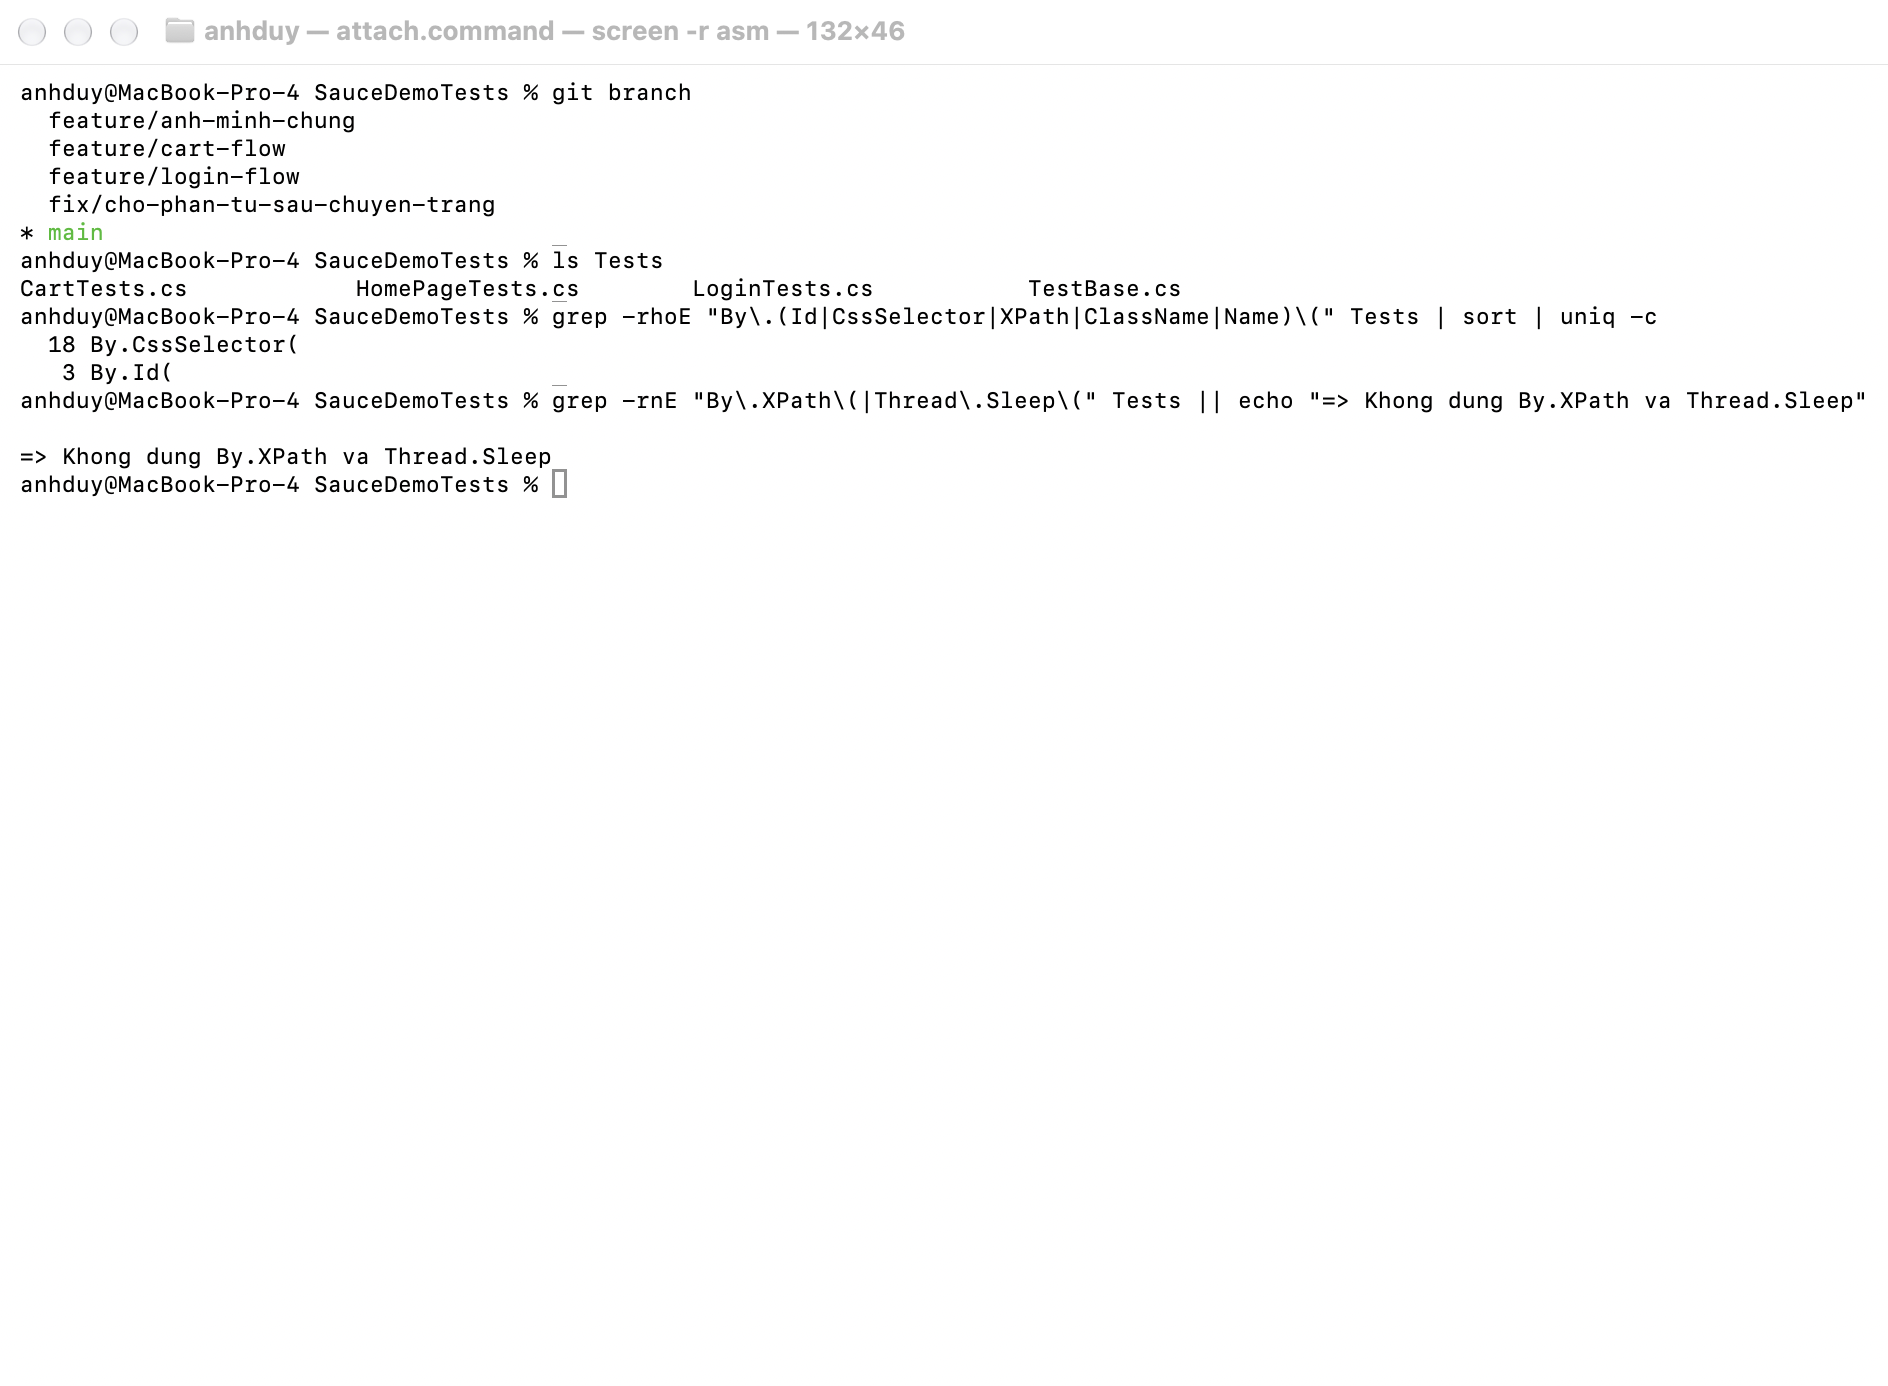
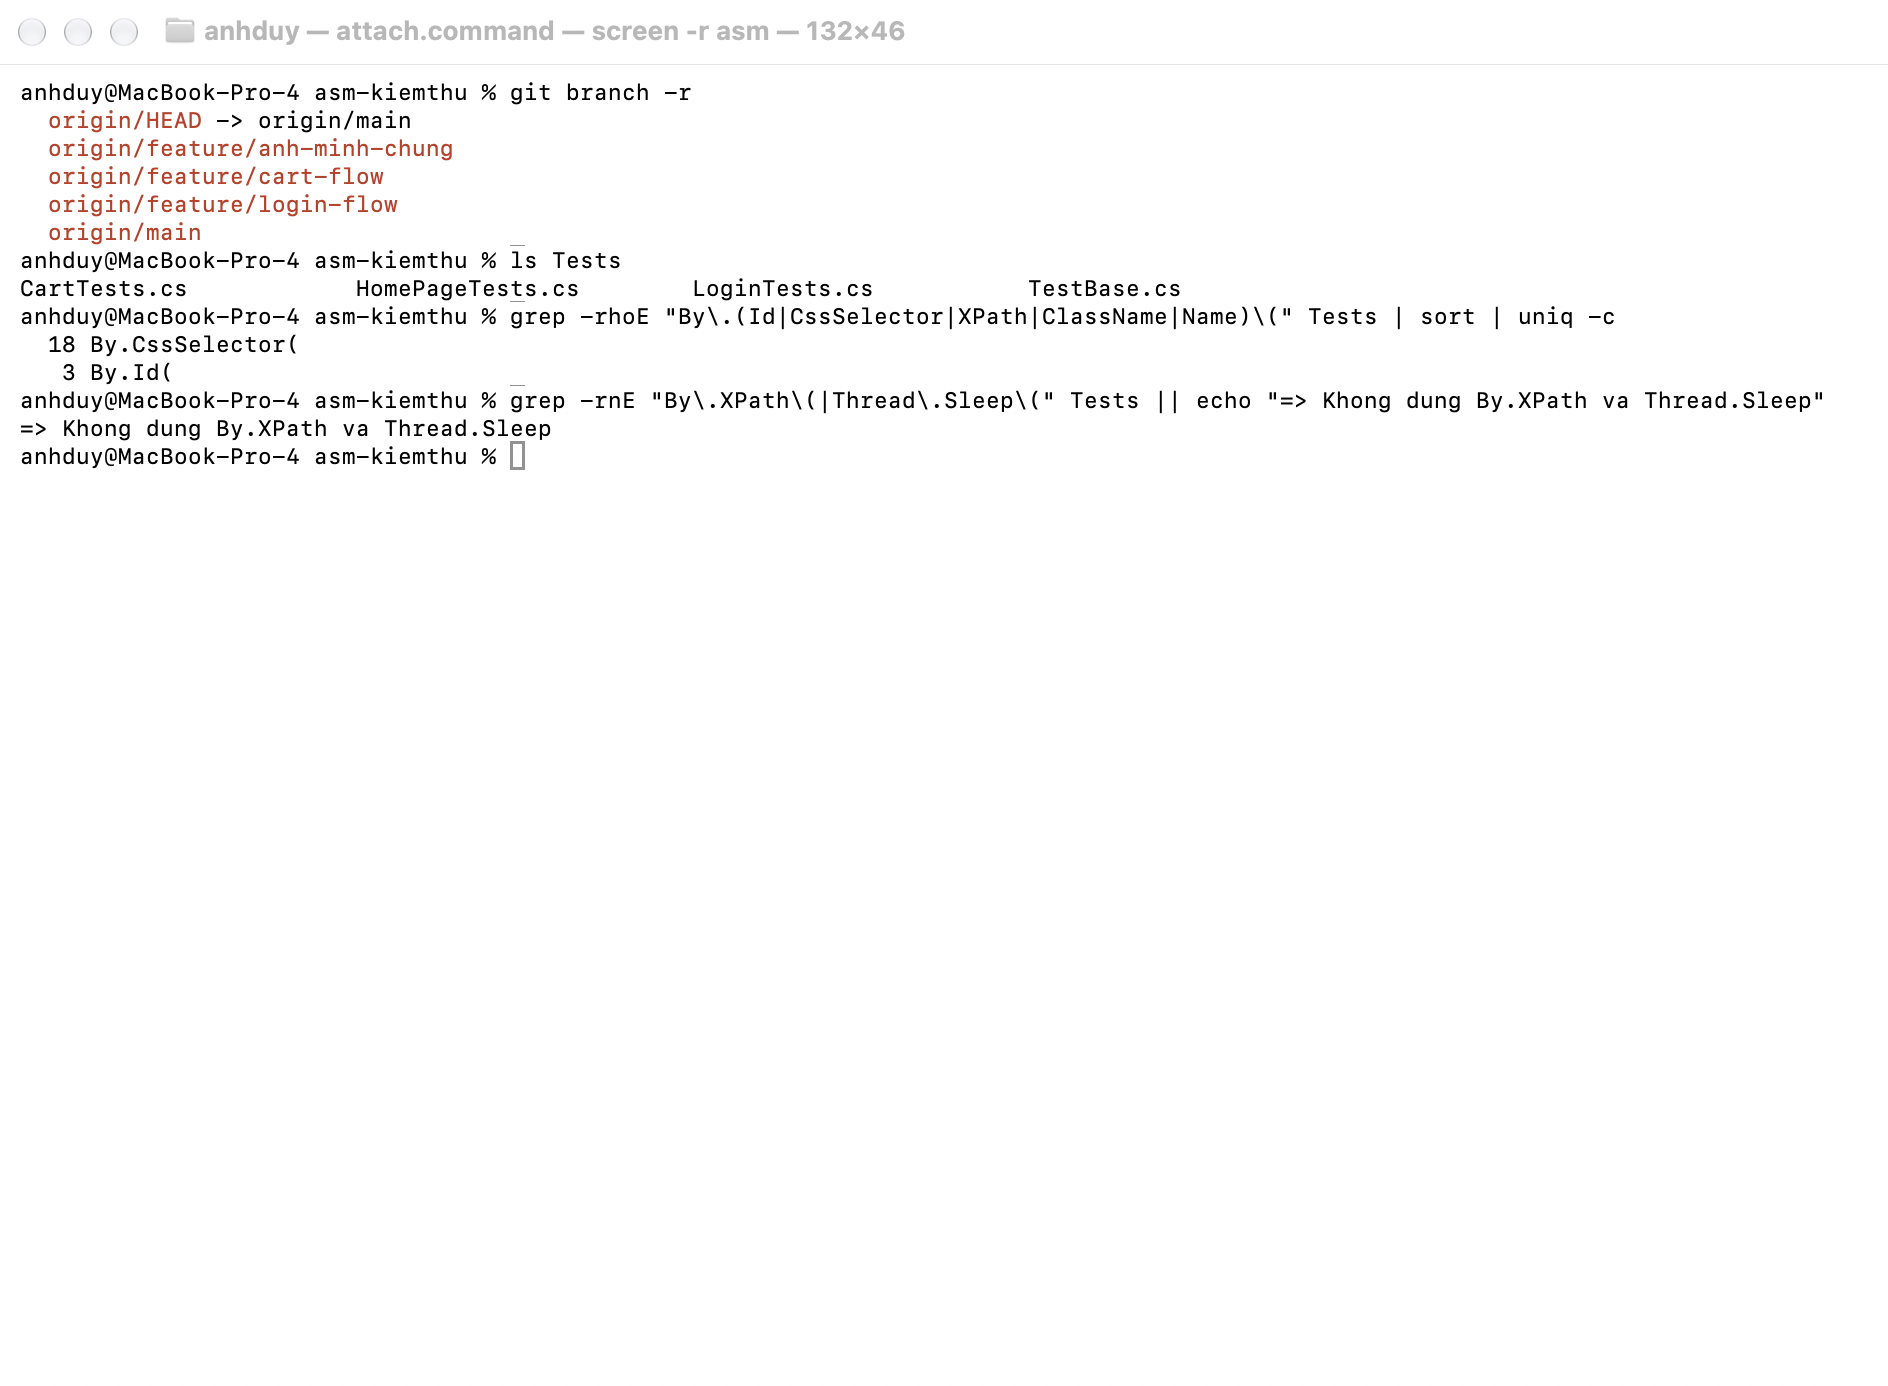
docs: cap nhat README va anh minh chung cho repo asm-kiemthu
Claude-Session: https://claude.ai/code/session_01CqsRfZiW6Cxes66SjNhPSq

Changed region(s): [[0.0, 0.2792, 0.9688, 0.3723], [0.0312, 0.062, 0.375, 0.1861], [0.1562, 0.1861, 0.8438, 0.2482]]

diff --git a/README.md b/README.md
@@ -1,4 +1,4 @@
-# SauceDemoTests — Framework kiểm thử tự động (Selenium + NUnit, .NET 10)
+# asm-kiemthu — Framework kiểm thử tự động (Selenium + NUnit, .NET 10)
 
 Assignment môn **SOF3091 – Kiểm thử nâng cao cùng AI (.NET)**, FPT Polytechnic.
 Đối tượng kiểm thử: <https://www.saucedemo.com/> (trang demo công khai, được phép kiểm thử).
@@ -19,7 +19,7 @@ Assignment môn **SOF3091 – Kiểm thử nâng cao cùng AI (.NET)**, FPT Poly
 ## Cấu trúc thư mục
 
 ```
-SauceDemoTests/
+asm-kiemthu/
 ├── SauceDemoTests.csproj
 ├── Tests/
 │   ├── TestBase.cs        # mở/đóng Chrome, DangNhap(), ChoUrlChua(), ChoPhanTuHienThi()
@@ -40,8 +40,8 @@ SauceDemoTests/
 Yêu cầu: đã cài .NET SDK 10 và Google Chrome.
 
 ```bash
-git clone <link-repo>
-cd SauceDemoTests
+git clone https://github.com/anhduy-dot/asm-kiemthu.git
+cd asm-kiemthu
 dotnet build
 dotnet test
 ```
@@ -101,7 +101,7 @@ Chỉ dùng `id` và `data-test`; không dùng XPath tuyệt đối.
 ## Quy ước commit
 
 Theo Conventional Commits: `feat:`, `build:`, `test:`, `refactor:`, `docs:`.
-Mỗi tính năng làm trên một nhánh `feature/...`, chạy xanh rồi mới merge vào `main`.
+Mỗi tính năng làm trên một nhánh `feature/...`, chạy test xanh rồi mở Pull Request và merge vào `main` trên GitHub (PR #1–#3 ở giai đoạn 1).
 
 ## Nhóm thực hiện
 
